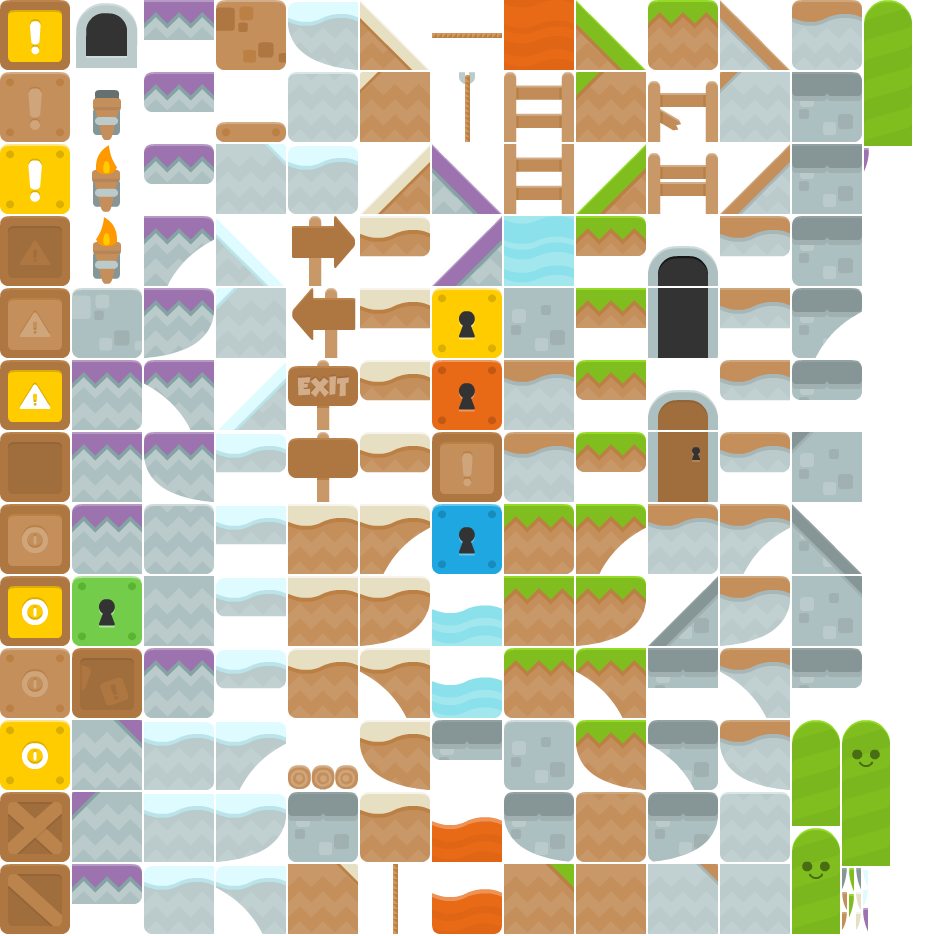
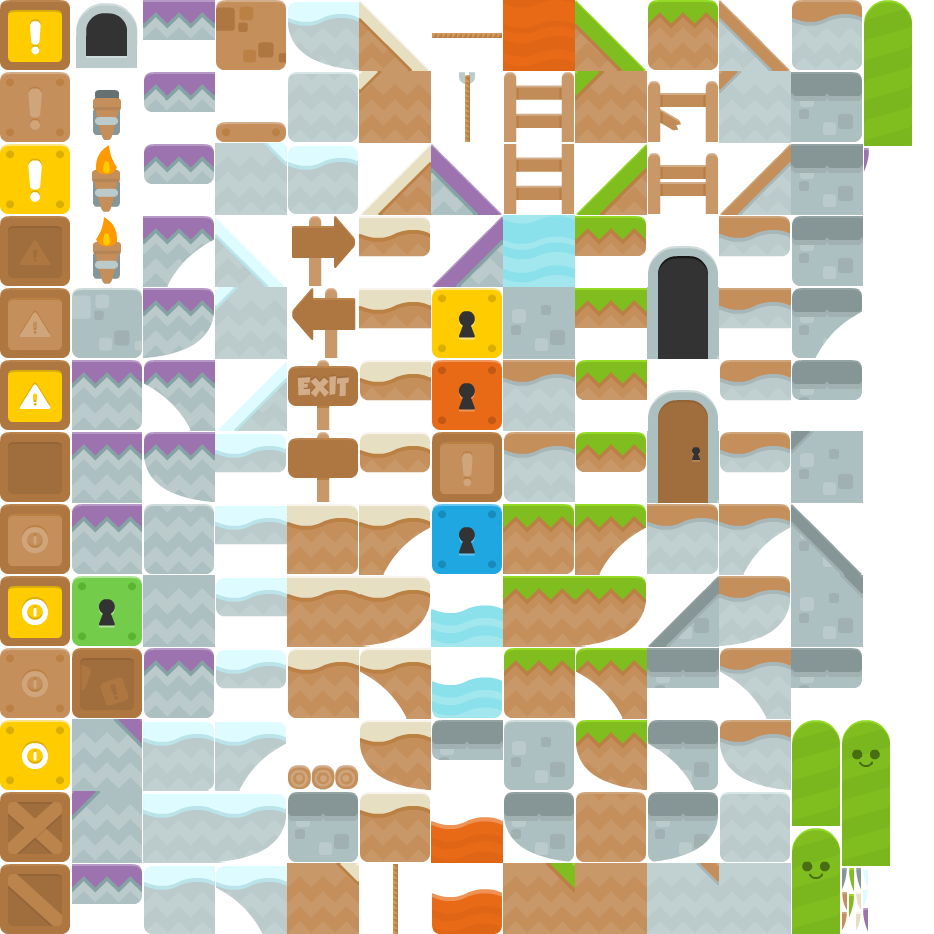
Tiling better.

diff --git a/src/platformerlevel.js b/src/platformerlevel.js
@@ -7,7 +7,7 @@ export default class PlatformerLevel extends Level {
         // map made with Tiled in JSON format
         game.load.tilemapTiledJSON('map' + this.name, this.levelFile);
         // tiles in spritesheet 
-        game.load.spritesheet('tiles', 'assets/maps/tiles.png', {frameWidth: 72, frameHeight: 72});
+        game.load.spritesheet('tiles', 'assets/maps/tiles.png', {frameWidth: 70, frameHeight: 70, spacing: 2, margin: 0});
         game.load.spritesheet('rewards', 'assets/sprites/star/star.png', {frameWidth: 72, frameHeight: 72});
       
         game.load.atlas('player', 'assets/sprites/player/sheet.png', 'assets/sprites/player/sprites.json');
